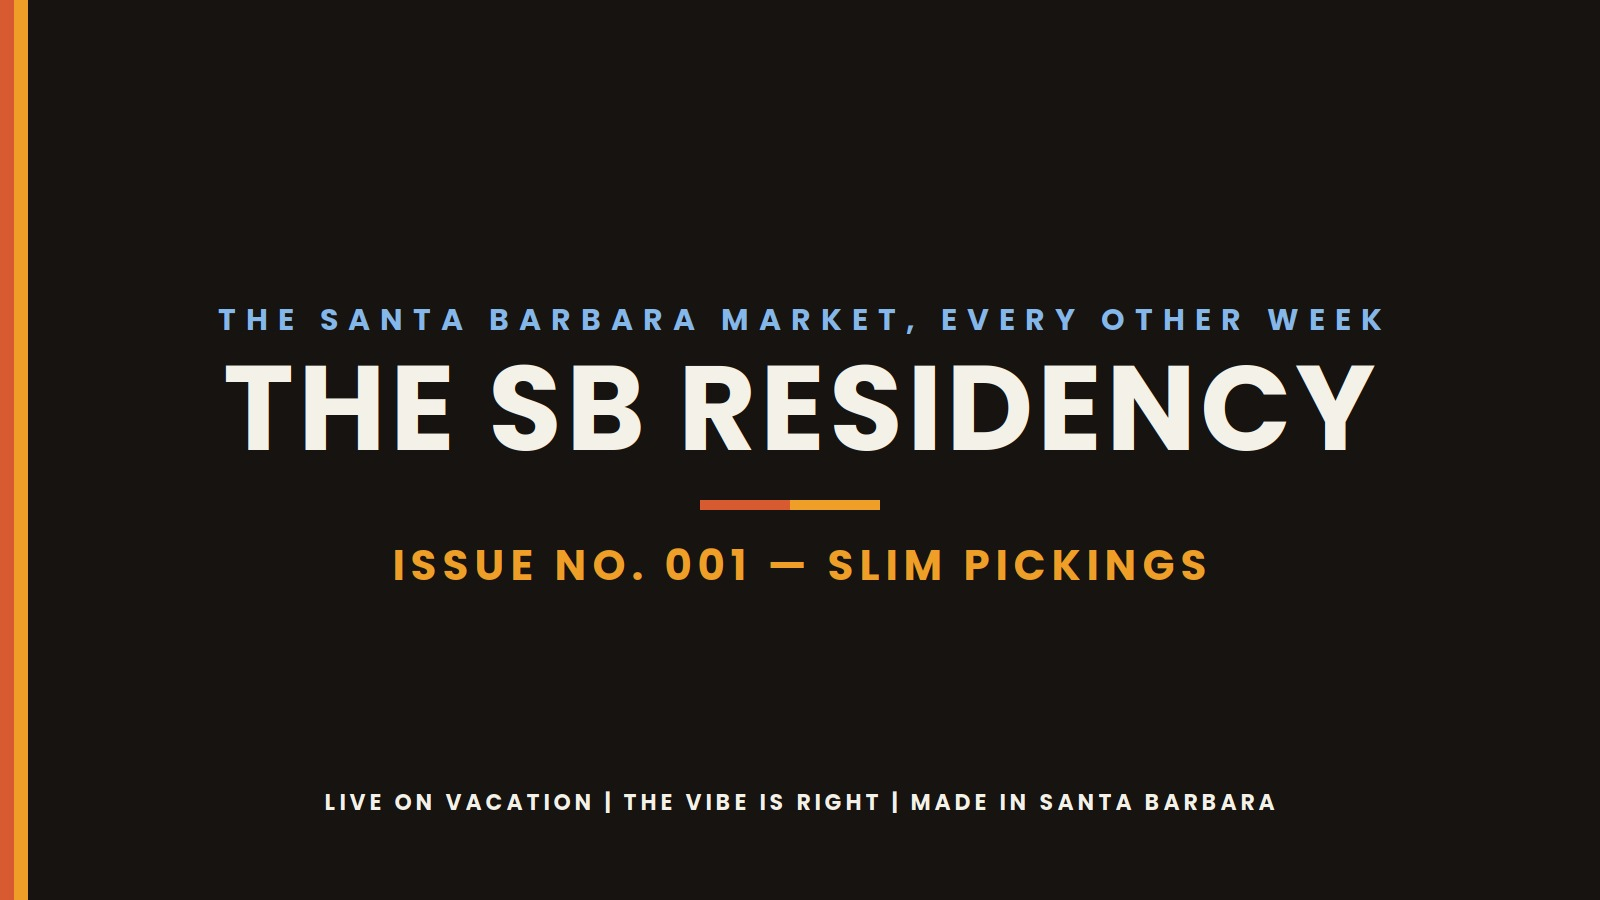
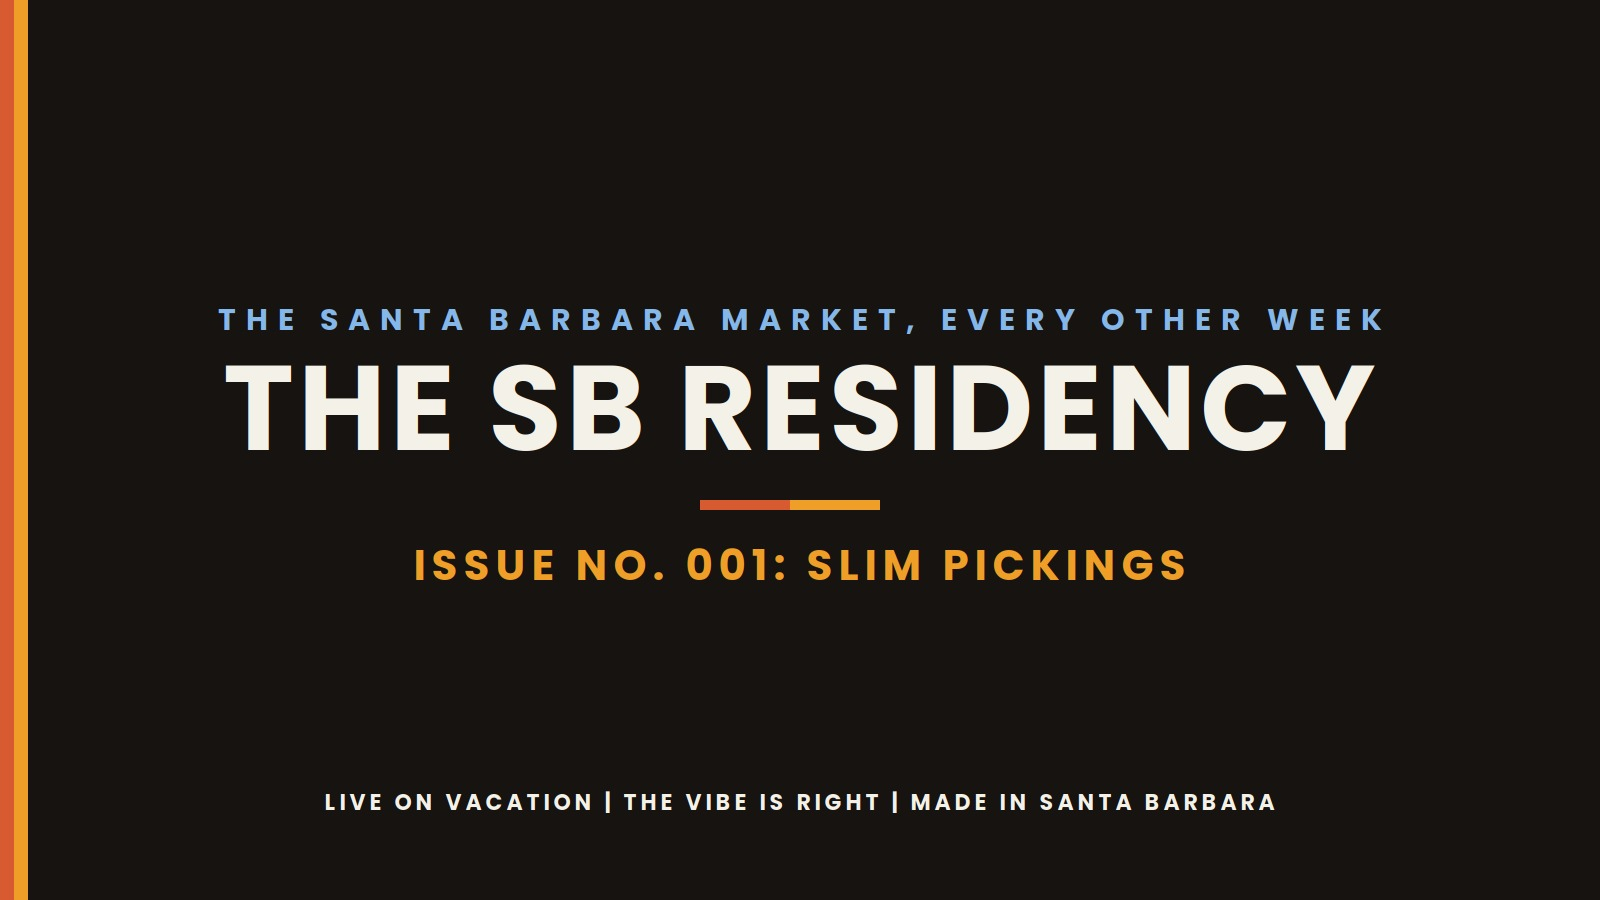
Issue 01 update: FlexMLS links, expanded Claude section, remove em dashes

Changed region(s): [[0.25, 0.5911, 0.75, 0.6533]]

diff --git a/posts/slim-pickings.html b/posts/slim-pickings.html
@@ -3,8 +3,8 @@
 <head>
 <meta charset="utf-8">
 <meta name="viewport" content="width=device-width, initial-scale=1">
-<title>The SB Residency — Slim Pickings — SB Residency</title>
-<meta name="description" content="Santa Barbara inventory is down 23% year-over-year — here&#x27;s what that means for buyers and sellers, plus three properties worth a look.">
+<title>The SB Residency: Slim Pickings — SB Residency</title>
+<meta name="description" content="Santa Barbara inventory is down 23% year-over-year. Here&#x27;s what that means for buyers and sellers, plus three properties worth a look.">
 <link rel="icon" href="/assets/shea-mark-on-dark-128.png">
 <link rel="alternate" type="application/rss+xml" title="SB Residency" href="/rss.xml">
 <link rel="stylesheet" href="/css/site.css">
@@ -34,32 +34,32 @@
     <div class="shell">
       <div class="article" data-reveal>
         <div class="stripes"><span></span><span></span></div>
-        <p class="article__meta">No. 001 · August 4, 2026</p>
-        <h1 style="font-size:clamp(2rem,4.5vw,3.4rem);margin-bottom:2rem">The SB Residency — Slim Pickings</h1>
-        <div class="article__hero"><img src="/assets/posts/2026-issue-01-slim-pickings-hero.jpg" alt="The SB Residency — Issue No. 001, Slim Pickings"></div>
-        <p>Santa Barbara just hit the mid-year mark, and the story isn't "hot" or "cold" — it's slim pickings. Active listings are down almost a quarter from a year ago, which is why we're calling this issue what it is. Fewer homes, faster sales, and buyers who show up ready to move. Here's what's actually happening on the ground, plus three places worth a second look.</p>
+        <p class="article__meta">No. 001 · August 5, 2026</p>
+        <h1 style="font-size:clamp(2rem,4.5vw,3.4rem);margin-bottom:2rem">The SB Residency: Slim Pickings</h1>
+        <div class="article__hero"><img src="/assets/posts/2026-issue-01-slim-pickings-hero.jpg" alt="The SB Residency, Issue No. 001: Slim Pickings"></div>
+        <p>Santa Barbara just hit the mid-year mark, and the story isn't "hot" or "cold." It's slim pickings. Active listings are down almost a quarter from a year ago, which is why we're calling this issue what it is. Fewer homes, faster sales, and buyers who show up ready to move. Here's what's actually happening on the ground, plus three places worth a second look.</p>
 <h2>The Nitty Gritty</h2>
 <p><em>This issue's market, by the numbers.</em></p>
-<p><strong>Santa Barbara City — Single-Family Homes (June 2026, via FLEX MLS)</strong></p>
+<p><strong>Santa Barbara City, Single-Family Homes (June 2026, via FLEX MLS)</strong></p>
 <ul>
-<li>Active listings: 201 — down 23.3% year-over-year (262 in June 2025)</li>
-<li>Median sold price: $1,712,500 — down 6.2% year-over-year ($1,825,000 in June 2025), essentially flat to slightly softer, not a crash</li>
-<li>Average days on market: 37.9 days — up 30.2% year-over-year (29.1 days in June 2025)</li>
+<li>Active listings: 201, down 23.3% year-over-year (262 in June 2025)</li>
+<li>Median sold price: $1,712,500, down 6.2% year-over-year ($1,825,000 in June 2025), essentially flat to slightly softer, not a crash</li>
+<li>Average days on market: 37.9 days, up 30.2% year-over-year (29.1 days in June 2025)</li>
 </ul>
-<p>The read: inventory is the real story here. Down almost a quarter from a year ago, which is why homes are sitting a bit longer even as prices barely move — there's simply less to compete for. If you've been waiting for more choices to show up, they're not coming. If you've been sitting on the fence about listing, you're facing less competition than you were a year ago.</p>
-<p><em>Stats reflect single-family homes in the City of Santa Barbara only — not condos, not the wider county. We rotate through a different market each issue.</em></p>
+<p>The read: inventory is the real story here. Down almost a quarter from a year ago, which is why homes are sitting a bit longer even as prices barely move. There's simply less to compete for. If you've been waiting for more choices to show up, they're not coming. If you've been sitting on the fence about listing, you're facing less competition than you were a year ago.</p>
+<p><em>Stats reflect single-family homes in the City of Santa Barbara only, not condos, not the wider county. We rotate through a different market each issue.</em></p>
 <h2>Window Shopping</h2>
 <p><em>Some listings that caught my eye this issue.</em></p>
-<p><strong>3661 Sunset Drive, Santa Barbara — $2,995,000</strong></p>
+<p><strong><a href="https://www.flexmls.com/share/EOPZx/3661-Sunset-Drive-SANTA-BARBARA-CA-93105">3661 Sunset Drive, Santa Barbara</a>: $2,995,000</strong></p>
 <p><img src="https://cdn.resize.sparkplatform.com/sbr/2048x1600/true/20260728224352075241000000-o.jpg" alt="3661 Sunset Drive San Roque Santa Barbara home for sale" loading="lazy"></p>
 <p>San Roque single-level, fully reworked inside and out. French oak floors, a kitchen that means business, in-ceiling speakers, updated wiring and networking, and a backyard that got the same love as the interior. Quiet neighborhood, walkable, done right. 3 bed | 3 bath | 2,288 sqft | 0.21 acre. Listing courtesy of Aaron Gilles, Village Properties. (MLS #26-2513)</p>
-<p><strong>1249 Diana Lane, Santa Barbara — $3,175,000</strong></p>
+<p><strong><a href="https://www.flexmls.com/share/EOPbV/1249-Diana-Lane-SANTA-BARBARA-CA-93103">1249 Diana Lane, Santa Barbara</a>: $3,175,000</strong></p>
 <p><img src="https://cdn.resize.sparkplatform.com/sbr/2048x1600/true/20260728154921286679000000-o.jpg" alt="1249 Diana Lane Santa Barbara home for sale" loading="lazy"></p>
-<p>Compact footprint, big price — proof that in this market, location and finish beat square footage every time. 3 bed | 3 bath | 1,381 sqft | 0.17 acre. Listing courtesy of Pippa Davis, Compass. (MLS #26-2488)</p>
-<p><strong>1461–1463 Edgecliff Lane, Montecito — $58,500,000</strong></p>
+<p>Compact footprint, big price: proof that in this market, location and finish beat square footage every time. 3 bed | 3 bath | 1,381 sqft | 0.17 acre. Listing courtesy of Pippa Davis, Compass. (MLS #26-2488)</p>
+<p><strong><a href="https://www.flexmls.com/share/EOPbx/1461-1463-Edgecliff-Lane-MONTECITO-CA-93108">1461-1463 Edgecliff Lane, Montecito</a>: $58,500,000</strong></p>
 <p><img src="https://cdn.resize.sparkplatform.com/sbr/2048x1600/true/20260722203015915061000000-o.jpg" alt="Montecito oceanfront estate 1461 Edgecliff Lane for sale" loading="lazy"></p>
-<p>This one's not for browsing, it's for gawking. A gated, dual-parcel oceanfront compound with 195+ feet of Montecito coastline, four structures — main house, guest house, beach pavilion with a wellness center and art studio, plus a beach cottage — private access to Hammonds Beach, and a four-car garage, which on this stretch of coast is basically a unicorn. 9 bed | 11 bath | 8,934 sqft | 0.86 acre. Listing courtesy of Timothy Di Prizito, Christie's International RE SoCal. (MLS #26-2458)</p>
-<p>See something you like? Reach out and let's talk. Not my listings — sharing because they caught my eye. I'm happy to show you any of these or find something that fits even better.</p>
+<p>This one's not for browsing, it's for gawking. A gated, dual-parcel oceanfront compound with 195+ feet of Montecito coastline, four structures (main house, guest house, beach pavilion with a wellness center and art studio, plus a beach cottage), private access to Hammonds Beach, and a four-car garage, which on this stretch of coast is basically a unicorn. 9 bed | 11 bath | 8,934 sqft | 0.86 acre. Listing courtesy of Timothy Di Prizito, Christie's International RE SoCal. (MLS #26-2458)</p>
+<p>See something you like? Reach out and let's talk. Not my listings. Sharing because they caught my eye. I'm happy to show you any of these or find something that fits even better.</p>
 <h2>This Issue's Vibe</h2>
 <p><em>Local adventurers, storytellers, eats &amp; other must-follows.</em></p>
 <p><strong>Follow:</strong> <a href="https://www.instagram.com/petitsoleilslo">@petitsoleilslo</a></p>
@@ -72,14 +72,15 @@
 <p><em>The soundtrack to the SB Residency, updated all the time.</em></p>
 <p><img src="https://image-cdn-fa.spotifycdn.com/image/ab67706c0000da8411073341cc9d3a3192b9439a" alt="SB Residency House Radio Spotify playlist cover art" loading="lazy"></p>
 <p>Everything we're listening to here in Santa Barbara, updated all the time. <a href="https://open.spotify.com/playlist/7gexMzDUJ3CiGideZIzdlg">Listen on Spotify</a></p>
-<p>On repeat this issue: <em>BLINK (Deluxe Edition)</em> — Bob Moses. Dropped July 10. Electronic, 14 tracks, exactly the record for a drive up the 101 with the windows down.</p>
+<p>On repeat this issue: <em>BLINK (Deluxe Edition)</em> by Bob Moses. Dropped July 10. Electronic, 14 tracks, exactly the record for a drive up the 101 with the windows down.</p>
 <p><strong>Currently Obsessed With: Claude AI</strong></p>
-<p><em>Whatever's got my attention this cycle — tool, trend, or otherwise.</em></p>
-<p><img src="/assets/posts/2026-issue-01-claude-screenshot.png" alt="Claude AI chat interface — Todd's actual setup" loading="lazy"></p>
-<p>I've been deep in it the last couple weeks — rebuilt my website, built out a virtual assistant, set up an email checker, and yeah, this newsletter you're reading is part of it too. It's making me faster, more efficient, and more connected to my clients than I thought possible, without losing my voice in the process. If you're curious how any of it works, ask me next time we talk.</p>
+<p><em>Whatever's got my attention this cycle: tool, trend, or otherwise.</em></p>
+<p><img src="/assets/posts/2026-issue-01-claude-screenshot.png" alt="Claude AI chat interface, Todd's actual setup" loading="lazy"></p>
+<p>I've been deep in it the last couple weeks. Rebuilt my website, built out a virtual assistant, set up an email checker, and yeah, this newsletter you're reading is part of it too. It's making me faster, more efficient, and more connected to my clients than I thought possible, without losing my voice in the process. If you're curious how any of it works, ask me next time we talk.</p>
+<p>And it's not just a smarter Google. If you don't know how to do something, it'll walk you through it step by step: screenshots, explanations, the works, like having a patient expert sitting next to you instead of a search bar spitting out ten blue links you have to sort through yourself. I've had it walk me through coding, which I had zero background in going in, one step at a time until it actually worked. Basically: if you can think it, you can try it. That's been the real shift for me, not just getting answers faster, but actually building things I had no business being able to build on my own.</p>
 <h2>Ready When You Are</h2>
-<p><em>Buying, selling, or just curious what it's worth — I'm here.</em></p>
-<p>Thinking about buying, selling, or just want to know what your place is worth in this market? Let's talk — no pressure. It's always worth the conversation.</p>
+<p><em>Buying, selling, or just curious what it's worth? I'm here.</em></p>
+<p>Thinking about buying, selling, or just want to know what your place is worth in this market? Let's talk. No pressure. It's always worth the conversation.</p>
 <p><a href="/contact.html">Get in touch →</a></p>
         <div class="article__signoff">
           <div class="stripes"><span></span><span></span></div>

diff --git a/index.html b/index.html
@@ -194,10 +194,10 @@
       <div class="issue-list" data-issue-list data-reveal>
 
         <a class="issue" href="/posts/slim-pickings.html">
-          <span class="issue__date">Aug 4, 2026</span>
+          <span class="issue__date">Aug 5, 2026</span>
           <span>
-            <span class="issue__title">The SB Residency — Slim Pickings</span>
-            <p class="issue__sub">Santa Barbara inventory is down 23% year-over-year — here&#x27;s what that means for buyers and sellers, plus three properties worth a look.</p>
+            <span class="issue__title">The SB Residency: Slim Pickings</span>
+            <p class="issue__sub">Santa Barbara inventory is down 23% year-over-year. Here&#x27;s what that means for buyers and sellers, plus three properties worth a look.</p>
           </span>
           <span class="issue__no">No. 001</span>
         </a>

diff --git a/residency.html b/residency.html
@@ -45,10 +45,10 @@
       <div class="issue-list" data-issue-list data-reveal>
 
         <a class="issue" href="/posts/slim-pickings.html">
-          <span class="issue__date">Aug 4, 2026</span>
+          <span class="issue__date">Aug 5, 2026</span>
           <span>
-            <span class="issue__title">The SB Residency — Slim Pickings</span>
-            <p class="issue__sub">Santa Barbara inventory is down 23% year-over-year — here&#x27;s what that means for buyers and sellers, plus three properties worth a look.</p>
+            <span class="issue__title">The SB Residency: Slim Pickings</span>
+            <p class="issue__sub">Santa Barbara inventory is down 23% year-over-year. Here&#x27;s what that means for buyers and sellers, plus three properties worth a look.</p>
           </span>
           <span class="issue__no">No. 001</span>
         </a>

diff --git a/posts/2026-08-05-slim-pickings.md b/posts/2026-08-05-slim-pickings.md
@@ -1,51 +1,51 @@
 ---
-title: The SB Residency — Slim Pickings
-date: 2026-08-04
+title: The SB Residency: Slim Pickings
+date: 2026-08-05
 number: 1
-teaser: Santa Barbara inventory is down 23% year-over-year — here's what that means for buyers and sellers, plus three properties worth a look.
+teaser: Santa Barbara inventory is down 23% year-over-year. Here's what that means for buyers and sellers, plus three properties worth a look.
 hero: /assets/posts/2026-issue-01-slim-pickings-hero.jpg
-hero_alt: The SB Residency — Issue No. 001, Slim Pickings
+hero_alt: The SB Residency, Issue No. 001: Slim Pickings
 ---
 
-Santa Barbara just hit the mid-year mark, and the story isn't "hot" or "cold" — it's slim pickings. Active listings are down almost a quarter from a year ago, which is why we're calling this issue what it is. Fewer homes, faster sales, and buyers who show up ready to move. Here's what's actually happening on the ground, plus three places worth a second look.
+Santa Barbara just hit the mid-year mark, and the story isn't "hot" or "cold." It's slim pickings. Active listings are down almost a quarter from a year ago, which is why we're calling this issue what it is. Fewer homes, faster sales, and buyers who show up ready to move. Here's what's actually happening on the ground, plus three places worth a second look.
 
 ## The Nitty Gritty
 
 *This issue's market, by the numbers.*
 
-**Santa Barbara City — Single-Family Homes (June 2026, via FLEX MLS)**
+**Santa Barbara City, Single-Family Homes (June 2026, via FLEX MLS)**
 
-- Active listings: 201 — down 23.3% year-over-year (262 in June 2025)
-- Median sold price: $1,712,500 — down 6.2% year-over-year ($1,825,000 in June 2025), essentially flat to slightly softer, not a crash
-- Average days on market: 37.9 days — up 30.2% year-over-year (29.1 days in June 2025)
+- Active listings: 201, down 23.3% year-over-year (262 in June 2025)
+- Median sold price: $1,712,500, down 6.2% year-over-year ($1,825,000 in June 2025), essentially flat to slightly softer, not a crash
+- Average days on market: 37.9 days, up 30.2% year-over-year (29.1 days in June 2025)
 
-The read: inventory is the real story here. Down almost a quarter from a year ago, which is why homes are sitting a bit longer even as prices barely move — there's simply less to compete for. If you've been waiting for more choices to show up, they're not coming. If you've been sitting on the fence about listing, you're facing less competition than you were a year ago.
+The read: inventory is the real story here. Down almost a quarter from a year ago, which is why homes are sitting a bit longer even as prices barely move. There's simply less to compete for. If you've been waiting for more choices to show up, they're not coming. If you've been sitting on the fence about listing, you're facing less competition than you were a year ago.
 
-*Stats reflect single-family homes in the City of Santa Barbara only — not condos, not the wider county. We rotate through a different market each issue.*
+*Stats reflect single-family homes in the City of Santa Barbara only, not condos, not the wider county. We rotate through a different market each issue.*
 
 ## Window Shopping
 
 *Some listings that caught my eye this issue.*
 
-**3661 Sunset Drive, Santa Barbara — $2,995,000**
+**[3661 Sunset Drive, Santa Barbara](https://www.flexmls.com/share/EOPZx/3661-Sunset-Drive-SANTA-BARBARA-CA-93105): $2,995,000**
 
 ![3661 Sunset Drive San Roque Santa Barbara home for sale](https://cdn.resize.sparkplatform.com/sbr/2048x1600/true/20260728224352075241000000-o.jpg)
 
 San Roque single-level, fully reworked inside and out. French oak floors, a kitchen that means business, in-ceiling speakers, updated wiring and networking, and a backyard that got the same love as the interior. Quiet neighborhood, walkable, done right. 3 bed | 3 bath | 2,288 sqft | 0.21 acre. Listing courtesy of Aaron Gilles, Village Properties. (MLS #26-2513)
 
-**1249 Diana Lane, Santa Barbara — $3,175,000**
+**[1249 Diana Lane, Santa Barbara](https://www.flexmls.com/share/EOPbV/1249-Diana-Lane-SANTA-BARBARA-CA-93103): $3,175,000**
 
 ![1249 Diana Lane Santa Barbara home for sale](https://cdn.resize.sparkplatform.com/sbr/2048x1600/true/20260728154921286679000000-o.jpg)
 
-Compact footprint, big price — proof that in this market, location and finish beat square footage every time. 3 bed | 3 bath | 1,381 sqft | 0.17 acre. Listing courtesy of Pippa Davis, Compass. (MLS #26-2488)
+Compact footprint, big price: proof that in this market, location and finish beat square footage every time. 3 bed | 3 bath | 1,381 sqft | 0.17 acre. Listing courtesy of Pippa Davis, Compass. (MLS #26-2488)
 
-**1461–1463 Edgecliff Lane, Montecito — $58,500,000**
+**[1461-1463 Edgecliff Lane, Montecito](https://www.flexmls.com/share/EOPbx/1461-1463-Edgecliff-Lane-MONTECITO-CA-93108): $58,500,000**
 
 ![Montecito oceanfront estate 1461 Edgecliff Lane for sale](https://cdn.resize.sparkplatform.com/sbr/2048x1600/true/20260722203015915061000000-o.jpg)
 
-This one's not for browsing, it's for gawking. A gated, dual-parcel oceanfront compound with 195+ feet of Montecito coastline, four structures — main house, guest house, beach pavilion with a wellness center and art studio, plus a beach cottage — private access to Hammonds Beach, and a four-car garage, which on this stretch of coast is basically a unicorn. 9 bed | 11 bath | 8,934 sqft | 0.86 acre. Listing courtesy of Timothy Di Prizito, Christie's International RE SoCal. (MLS #26-2458)
+This one's not for browsing, it's for gawking. A gated, dual-parcel oceanfront compound with 195+ feet of Montecito coastline, four structures (main house, guest house, beach pavilion with a wellness center and art studio, plus a beach cottage), private access to Hammonds Beach, and a four-car garage, which on this stretch of coast is basically a unicorn. 9 bed | 11 bath | 8,934 sqft | 0.86 acre. Listing courtesy of Timothy Di Prizito, Christie's International RE SoCal. (MLS #26-2458)
 
-See something you like? Reach out and let's talk. Not my listings — sharing because they caught my eye. I'm happy to show you any of these or find something that fits even better.
+See something you like? Reach out and let's talk. Not my listings. Sharing because they caught my eye. I'm happy to show you any of these or find something that fits even better.
 
 ## This Issue's Vibe
 
@@ -71,20 +71,22 @@ Six quiet, contactless boutique rooms in downtown Carpinteria, just opened this 
 
 Everything we're listening to here in Santa Barbara, updated all the time. [Listen on Spotify](https://open.spotify.com/playlist/7gexMzDUJ3CiGideZIzdlg)
 
-On repeat this issue: *BLINK (Deluxe Edition)* — Bob Moses. Dropped July 10. Electronic, 14 tracks, exactly the record for a drive up the 101 with the windows down.
+On repeat this issue: *BLINK (Deluxe Edition)* by Bob Moses. Dropped July 10. Electronic, 14 tracks, exactly the record for a drive up the 101 with the windows down.
 
 **Currently Obsessed With: Claude AI**
 
-*Whatever's got my attention this cycle — tool, trend, or otherwise.*
+*Whatever's got my attention this cycle: tool, trend, or otherwise.*
 
-![Claude AI chat interface — Todd's actual setup](/assets/posts/2026-issue-01-claude-screenshot.png)
+![Claude AI chat interface, Todd's actual setup](/assets/posts/2026-issue-01-claude-screenshot.png)
 
-I've been deep in it the last couple weeks — rebuilt my website, built out a virtual assistant, set up an email checker, and yeah, this newsletter you're reading is part of it too. It's making me faster, more efficient, and more connected to my clients than I thought possible, without losing my voice in the process. If you're curious how any of it works, ask me next time we talk.
+I've been deep in it the last couple weeks. Rebuilt my website, built out a virtual assistant, set up an email checker, and yeah, this newsletter you're reading is part of it too. It's making me faster, more efficient, and more connected to my clients than I thought possible, without losing my voice in the process. If you're curious how any of it works, ask me next time we talk.
+
+And it's not just a smarter Google. If you don't know how to do something, it'll walk you through it step by step: screenshots, explanations, the works, like having a patient expert sitting next to you instead of a search bar spitting out ten blue links you have to sort through yourself. I've had it walk me through coding, which I had zero background in going in, one step at a time until it actually worked. Basically: if you can think it, you can try it. That's been the real shift for me, not just getting answers faster, but actually building things I had no business being able to build on my own.
 
 ## Ready When You Are
 
-*Buying, selling, or just curious what it's worth — I'm here.*
+*Buying, selling, or just curious what it's worth? I'm here.*
 
-Thinking about buying, selling, or just want to know what your place is worth in this market? Let's talk — no pressure. It's always worth the conversation.
+Thinking about buying, selling, or just want to know what your place is worth in this market? Let's talk. No pressure. It's always worth the conversation.
 
 [Get in touch →](/contact.html)
